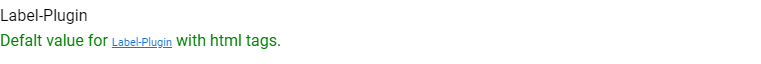
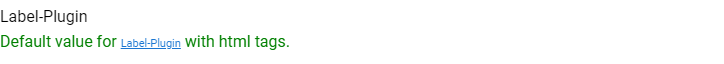
chore: update label.png

Changed region(s): [[0.0, 0.5312, 0.395, 0.7812], [0.0, 0.125, 0.1215, 0.4062]]

diff --git a/sample-app/src/main.js b/sample-app/src/main.js
@@ -37,7 +37,7 @@ const questions1 = [
     },
     name: "label",
     message: "Label-Plugin",
-    default: '<p style="color:green">Defalt value for <a href="https://github.com/SAP/inquirer-gui/tree/master/label-plugin">Label-Plugin</a> with html tags.</p>'
+    default: '<p style="color:green">Default value for <a href="https://github.com/SAP/inquirer-gui/tree/master/label-plugin">Label-Plugin</a> with html tags.</p>'
   },
   {
     type: "password",
